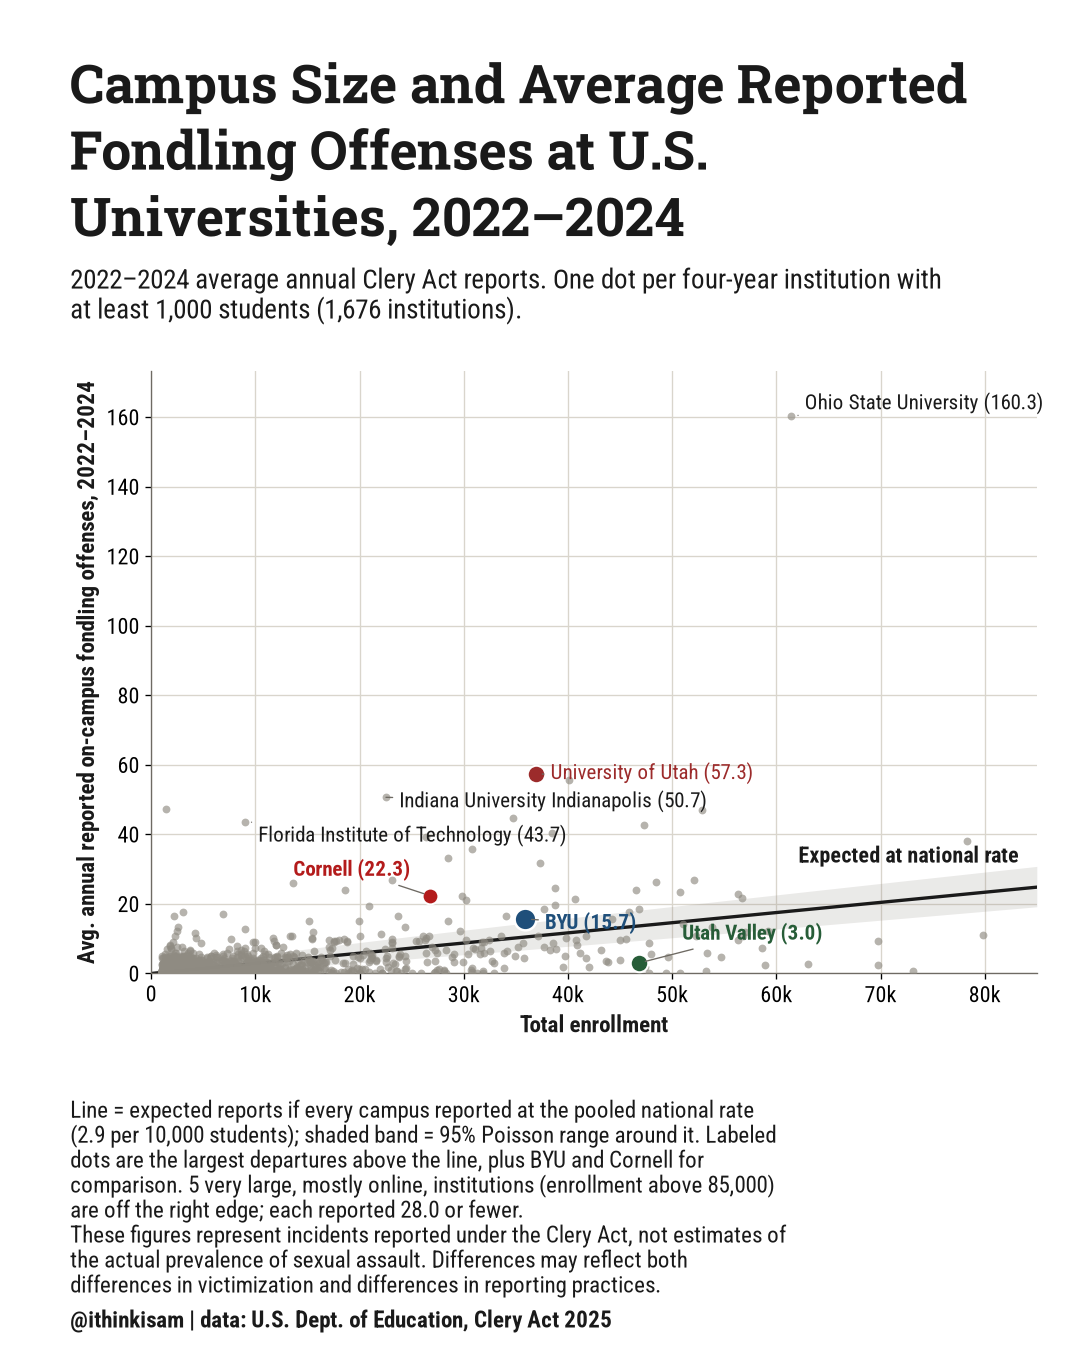
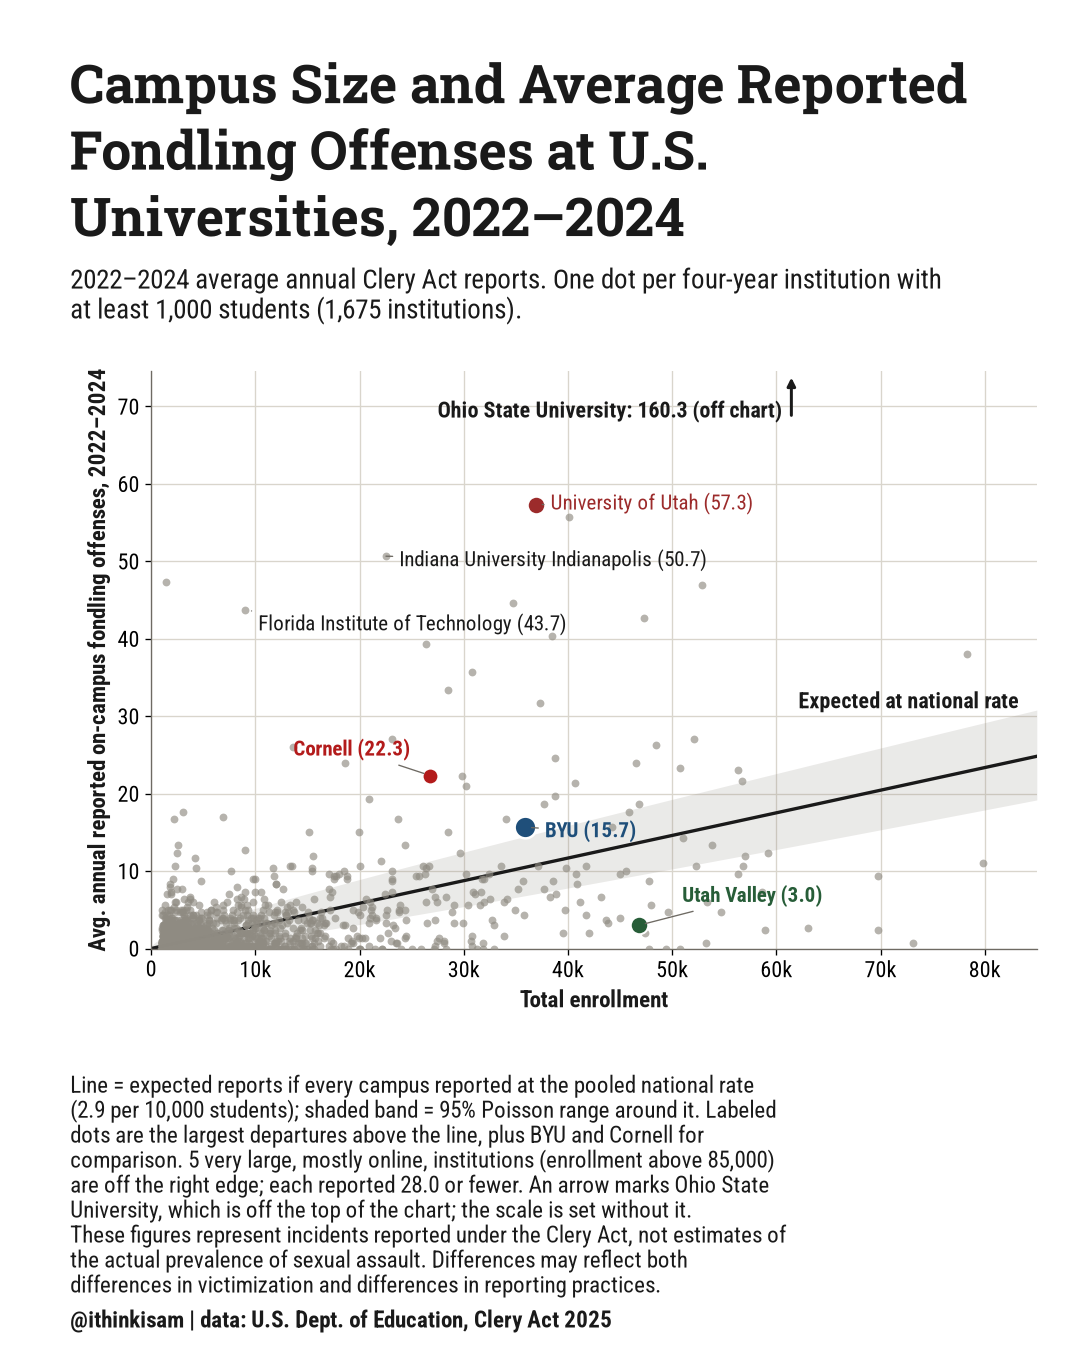
Fondling 3-year counts scatter: Ohio State off the chart with an arrow, rescaled (#52)

diff --git a/src/lib/data-explorer.ts b/src/lib/data-explorer.ts
@@ -2538,7 +2538,7 @@ function cleryFondlingGraphics(): Graphic[] {
       "Fondling: campus size and average reported offenses, 2022-2024",
       "Each four-year institution with 1,000+ students: enrollment against the 2022-2024 average annual reported on-campus fondling offenses.",
       "campus-size-vs-reported-fondling-2022-24-average.png",
-      "Scatter plot of enrollment against the 2022-2024 average annual reported on-campus fondling offenses with a line for the pooled national rate and a band that narrows as campuses grow. Ohio State (160), the University of Utah (57, red), Indiana University Indianapolis and Florida Institute of Technology sit far above it. BYU (15.7, blue), Cornell (red) and Utah Valley University (green) are labeled.",
+      "Scatter plot of enrollment against the 2022-2024 average annual reported on-campus fondling offenses with a line for the pooled national rate and a band that narrows as campuses grow. An arrow at the top marks Ohio State (160), which is off the chart. The University of Utah (57, red), Indiana University Indianapolis and Florida Institute of Technology sit far above the line. BYU (15.7, blue), Cornell (red) and Utah Valley University (green) are labeled.",
     ),
     mk(
       "Fondling: campus size and reported rates, 2024",

diff --git a/scripts/clery-campus-safety-2025/render.py b/scripts/clery-campus-safety-2025/render.py
@@ -152,7 +152,7 @@ def stat_box(ax, lines, x=0.97, y=0.97):
             fontproperties=FONTS["regular"], fontsize=15, color=INK, bbox=dict(boxstyle="square,pad=0.6", fc=PAPER, ec=BORDER, lw=1))
 
 
-def scatter_chart(out, fonts, hide=(), period="2024"):
+def scatter_chart(out, fonts, hide=(), period="2024", quiet=False):
     """Counts vs enrollment. period "3yr" plots the 2022-24 average annual count (rape24 holds the average)."""
     three = period == "3yr"
     if three:
@@ -170,6 +170,7 @@ def scatter_chart(out, fonts, hide=(), period="2024"):
     n_off = sum(p["enrollment"] > XCAP for p in pts)
     off_max = max(p["rape24"] for p in pts if p["enrollment"] > XCAP)
     pts_all, pts = pts, [p for p in pts if p["enrollment"] <= XCAP]
+    outliers = bool(hide) and not quiet  # the "without the three largest outliers" chart; quiet = just arrow(s) off the edge
     hidden = [p for p in pts if p["unitid"] in hide]
     pts = [p for p in pts if p["unitid"] not in hide]
     x = np.array([p["enrollment"] for p in pts])
@@ -179,7 +180,7 @@ def scatter_chart(out, fonts, hide=(), period="2024"):
 
     fig = plt.figure(figsize=(FIG_W_IN, FIG_H_IN), dpi=DPI)
     fig.patch.set_facecolor(PAPER)
-    title = ("Campus Size and Reported Rapes at U.S. Universities" if not hide
+    title = ("Campus Size and Reported Rapes at U.S. Universities" if not outliers
              else "Campus Size and Reported Rapes, Without the Three Largest Outliers")
     if three:
         title = "Campus Size and Average Reported Rapes at U.S. Universities, 2022" + chr(0x2013) + "2024"
@@ -193,7 +194,8 @@ def scatter_chart(out, fonts, hide=(), period="2024"):
          f"({rate:.1f} per 10,000 students); shaded band = 95% Poisson range around it. "
          "Labeled dots are the largest departures above the line, plus BYU and Cornell for comparison. "
          f"{n_off} very large, mostly online, institutions (enrollment above {XCAP:,}) are off the right edge; each reported {cnt(off_max)} or fewer."
-         + (" The three highest-count institutions are removed to improve the scale; arrows give their values." if hide else ""),
+         + (" The three highest-count institutions are removed to improve the scale; arrows give their values." if outliers else "")
+         + (" An arrow marks " + " and ".join(short(h["name"]) for h in hidden) + ", which is off the top of the chart; the scale is set without it." if (hide and quiet) else ""),
          DISCLAIMER],
         handle=HANDLE, fontsize=14, color=INK, wrap_width=80, line_step=0.0185)
     ax = fig.add_axes([0.14, cap_top + 0.075, 0.82, sub_bottom - cap_top - 0.105])
@@ -223,9 +225,9 @@ def scatter_chart(out, fonts, hide=(), period="2024"):
 
     top = sorted(pts, key=lambda p: -abs(p["resid_z"]))
     over = [p for p in top if p["resid_z"] > 0][:6]
-    if not hide:  # Mayo Clinic, Dartmouth and Lycoming labels removed from the main scatter
+    if not outliers:  # Mayo Clinic, Dartmouth and Lycoming labels removed from the main scatter
         over = [p for p in over if p["unitid"] not in ("173957", "182670", "213668")]
-    if hide:
+    if outliers:
         over = [p for p in over if p["unitid"] in ("173957", "182670", "115755", "110714")]
     under = []
     if three:  # keep the crowded low-count cluster unlabeled, but always label the University of Utah
@@ -234,8 +236,8 @@ def scatter_chart(out, fonts, hide=(), period="2024"):
     # (label, dx, dy in points, ha) hand-placed to avoid collisions
     place = {
         "230764": (9, -3, "left"), "126614": (9, -3, "left"), "151111": (9, -3, "left"),
-        "173957": (9, 66 if not hide else 86, "left"), "182670": (12, 26 if hide else 8, "left"),
-        "115755": (12, -26 if hide else 6, "left"),
+        "173957": (9, 66 if not outliers else 86, "left"), "182670": (12, 26 if outliers else 8, "left"),
+        "115755": (12, -26 if outliers else 6, "left"),
         "110714": (9, 6, "left"), "190415": (12, -16, "left"), BYU_ID: (12, -6, "left"), UVU_ID: (26, -8, "left"),
     }
     if three:
@@ -268,7 +270,7 @@ def scatter_chart(out, fonts, hide=(), period="2024"):
         ytxt = ylim * (0.84 if p["unitid"] == UTAH_ID else 0.93)
         ax.annotate("", xy=(p["enrollment"], ylim * 0.995), xytext=(p["enrollment"], ytxt - ylim * 0.012),
                     arrowprops=dict(arrowstyle="-|>", color=UTAH_RED if p["unitid"] == UTAH_ID else INK, lw=1.8))
-        ax.text(p["enrollment"] + (-900 if left else 900), ytxt, f"{lab}: {cnt(p['rape24'])}", ha="right" if left else "left",
+        ax.text(p["enrollment"] + (-900 if left else 900), ytxt, f"{lab}: {cnt(p['rape24'])}" + (" (off chart)" if quiet else ""), ha="right" if left else "left",
                 va="center", fontproperties=fonts["bold"], fontsize=13,
                 color=UTAH_RED if p["unitid"] == UTAH_ID else INK)
     ax.set_xlim(0, XCAP)
@@ -691,7 +693,8 @@ def main():
     FONTS.update(fonts)
     if OFFENSE == "fondling":  # the five charts that mirror the rape set we are comparing
         scatter_chart(args.out_dir / fname("campus-size-vs-reported-rapes-2024.png"), fonts)
-        scatter_chart(args.out_dir / fname("campus-size-vs-reported-rapes-2022-24-average.png"), fonts, period="3yr")
+        scatter_chart(args.out_dir / fname("campus-size-vs-reported-rapes-2022-24-average.png"), fonts, period="3yr",
+                      hide=("204796",), quiet=True)  # Ohio State (160) is off the chart
         rate_scatter_3yr_chart(args.out_dir / fname("campus-size-vs-reported-rape-rate-3yr-2022-24.png"), fonts)
         rate_scatter_3yr_chart(args.out_dir / fname("campus-size-vs-reported-rape-rate-2024.png"), fonts, period="2024")
         byu_campus_bars(args, fonts, include_raw=False)
